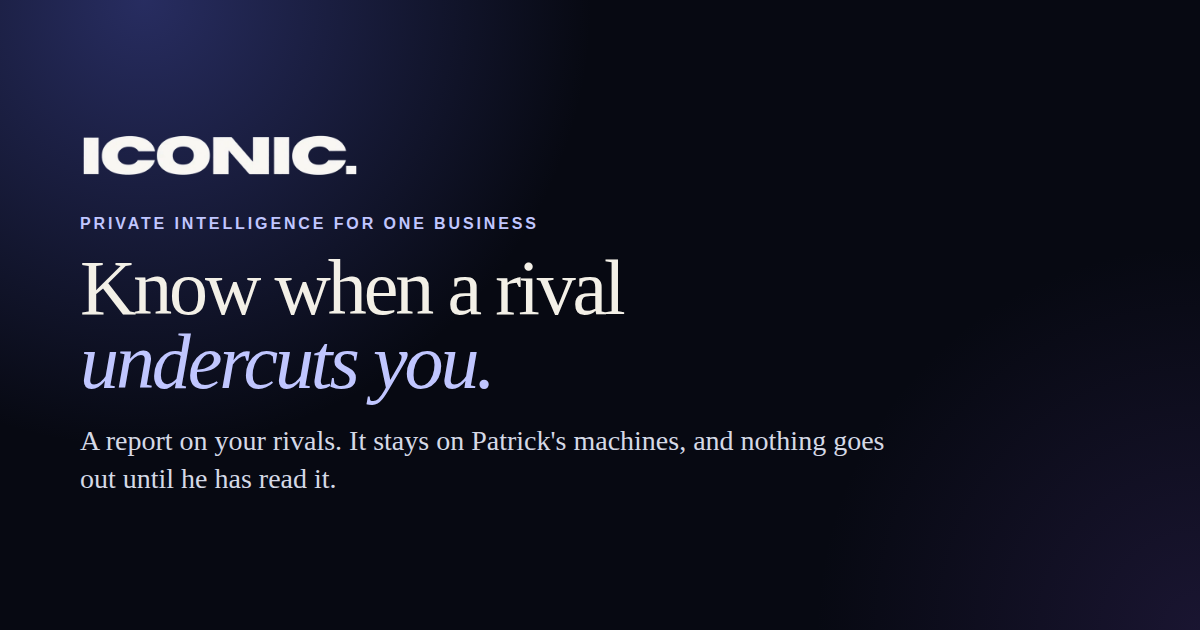
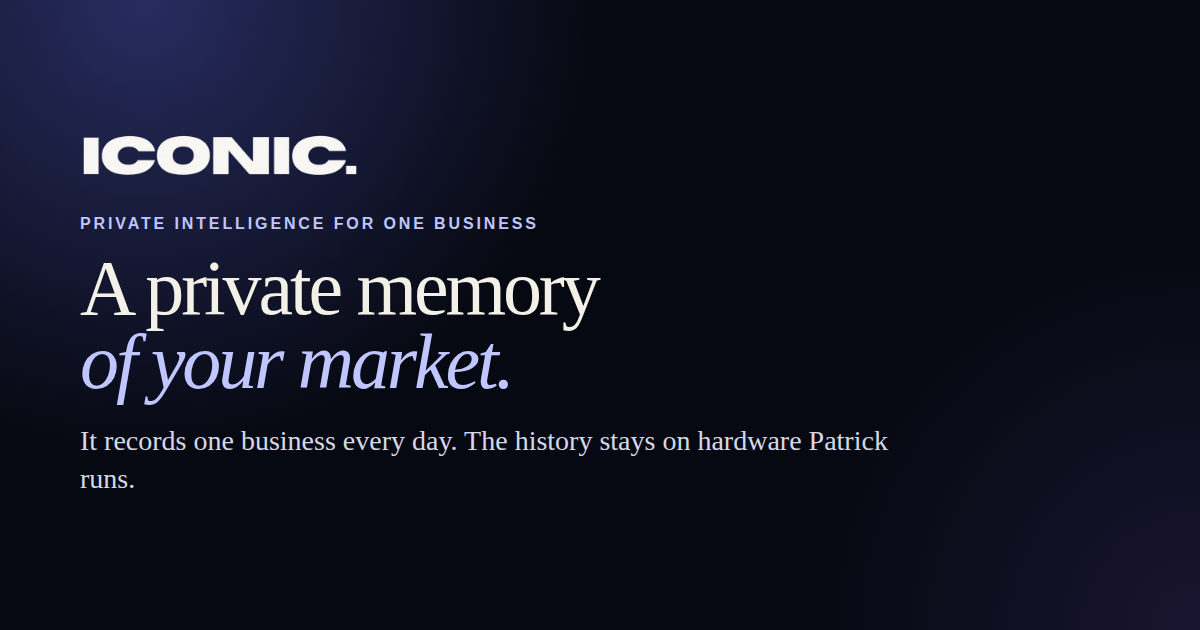
Lead with a private memory of one market
ICONIC is not a report generator. The hero is the daily record and the private connector. The dealer briefings stay under Running now as proof.

Changed region(s): [[0.0617, 0.3921, 0.5242, 0.6333], [0.0617, 0.6635, 0.74, 0.7238], [0.0617, 0.754, 0.2775, 0.7841]]

diff --git a/index.html b/index.html
@@ -4,11 +4,11 @@
   <meta charset="utf-8" />
   <meta name="viewport" content="width=device-width, initial-scale=1" />
   <meta name="theme-color" content="#080912" />
-  <title>ICONIC. — Know when a rival undercuts you</title>
-  <meta name="description" content="ICONIC learns one business. It starts as a report on your rivals, keeps a private history of their lots, and nothing goes out until Patrick has read it." />
+  <title>ICONIC. — A private memory of your market</title>
+  <meta name="description" content="ICONIC learns one business. It records that market every day and keeps the history on hardware Patrick runs. One private connector is in use for the current client. Nothing goes out until Patrick approves it." />
   <link rel="canonical" href="https://iconic.onl/" />
-  <meta property="og:title" content="ICONIC. — Know when a rival undercuts you" />
-  <meta property="og:description" content="A private report on your rivals. The market history stays on hardware Patrick runs, and nothing goes out until he has read it." />
+  <meta property="og:title" content="ICONIC. — A private memory of your market" />
+  <meta property="og:description" content="ICONIC learns one business. It records that market every day and keeps the history on hardware Patrick runs. Nothing goes out until Patrick approves it." />
   <meta property="og:url" content="https://iconic.onl/" />
   <meta property="og:type" content="website" />
   <meta property="og:image" content="https://iconic.onl/og.png" />
@@ -16,12 +16,12 @@
   <meta property="og:image:type" content="image/png" />
   <meta property="og:image:width" content="1200" />
   <meta property="og:image:height" content="630" />
-  <meta property="og:image:alt" content="ICONIC. Know when a rival undercuts you." />
+  <meta property="og:image:alt" content="ICONIC. A private memory of your market." />
   <meta name="twitter:card" content="summary_large_image" />
-  <meta name="twitter:title" content="ICONIC. — Know when a rival undercuts you" />
-  <meta name="twitter:description" content="A private report on your rivals. The market history stays on hardware Patrick runs, and nothing goes out until he has read it." />
+  <meta name="twitter:title" content="ICONIC. — A private memory of your market" />
+  <meta name="twitter:description" content="ICONIC learns one business. It records that market every day and keeps the history on hardware Patrick runs. Nothing goes out until Patrick approves it." />
   <meta name="twitter:image" content="https://iconic.onl/og.png" />
-  <meta name="twitter:image:alt" content="ICONIC. Know when a rival undercuts you." />
+  <meta name="twitter:image:alt" content="ICONIC. A private memory of your market." />
   <link rel="alternate" type="text/plain" href="/llms.txt" title="ICONIC for AI agents" />
   <script type="application/ld+json">
   {
@@ -53,12 +53,12 @@
       },
       {
         "@type": "Service",
-        "@id": "https://iconic.onl/#report",
-        "name": "ICONIC competitor report",
-        "serviceType": "Competitive intelligence for an owner-run business",
+        "@id": "https://iconic.onl/#service",
+        "name": "ICONIC",
+        "serviceType": "Private intelligence for one business",
         "provider": { "@id": "https://iconic.onl/#org" },
         "audience": { "@type": "BusinessAudience", "name": "Owner-run auto dealers, one rooftop or a small group" },
-        "description": "Rival lots are read daily and kept as a private history on hardware Patrick runs. A report goes out on Monday, Wednesday and Friday mornings. Like for like means the same year, model, trim, cab, drive and engine, with sticker prices within $1,000. Every number is tied to a dated public page and the exact quote. Reports are written with Claude, from public listing data. Patrick approves each report before it goes out."
+        "description": "ICONIC learns one business. It records that market every day and keeps the history on hardware Patrick runs. The longer it runs, the more of that market it holds. One private connector is in use for the current client. Patrick sets it up so that client's tools can read the same memory and the same checked numbers. There is no public install and no public API. For the one franchise dealer on it now, every rival lot we track is read daily, and a briefing goes out Monday, Wednesday and Friday mornings. Like for like means the same year, model, trim, cab, drive and engine, with sticker prices within $1,000. Every number is tied to a dated public page and the exact quote. The writing model only sees public listing data. Nothing goes out until Patrick approves it."
       },
       {
         "@type": "WebSite",
@@ -83,17 +83,17 @@
   <header class="site-header">
     <a class="brand" href="#top" aria-label="ICONIC home"><img src="iconic-wordmark.webp" alt="ICONIC." /></a>
     <nav class="nav" aria-label="Primary navigation">
-      <a href="#running">Running now</a>
       <a href="#how">How it works</a>
+      <a href="#running">Running now</a>
       <a href="#demo">The demo</a>
     </nav>
-    <a class="header-cta" href="#start">Start with one report</a>
+    <a class="header-cta" href="#start">Email Patrick</a>
     <button class="menu-toggle" id="menuToggle" type="button" aria-expanded="false" aria-controls="mobileNav">MENU</button>
     <nav class="mobile-nav" id="mobileNav" aria-label="Mobile navigation" hidden>
-      <a href="#running">Running now</a>
       <a href="#how">How it works</a>
+      <a href="#running">Running now</a>
       <a href="#demo">The demo</a>
-      <a href="#start">Start with one report</a>
+      <a href="#start">Email Patrick</a>
     </nav>
   </header>
 
@@ -101,8 +101,8 @@
     <section class="hero section-shell">
       <div class="hero-copy">
         <div class="eyebrow"><span class="live-dot"></span> Private intelligence for one business</div>
-        <h1>Know when a rival<br><em>undercuts you.</em></h1>
-        <p class="hero-deck">ICONIC learns one business. It starts as a report on your rivals that you can trust, and it keeps a private history of that market.</p>
+        <h1>A private memory<br><em>of your market.</em></h1>
+        <p class="hero-deck">ICONIC learns one business. It records that market every day and keeps the history on hardware I run. You see what rivals changed before you lose the deal.</p>
         <figure class="hero-bio">
           <img src="patrick-christell.jpg" alt="Patrick Christell" width="88" height="88" />
           <figcaption>
@@ -111,34 +111,61 @@
           </figcaption>
         </figure>
         <div class="hero-actions">
-          <a class="button button-primary" href="#start">Start with one report</a>
+          <a class="button button-primary" href="#start">Email Patrick</a>
           <a class="button button-ghost" href="#running">See what is running</a>
         </div>
         <div class="hero-proof">
-          <div><strong>01</strong><span>A report on your rivals</span></div>
-          <div><strong>02</strong><span>A private history of their lots</span></div>
-          <div><strong>03</strong><span>Nothing goes out until I approve it</span></div>
+          <div><strong>01</strong><span>Recorded every day</span></div>
+          <div><strong>02</strong><span>One private connector</span></div>
+          <div><strong>03</strong><span>A history a rival cannot copy</span></div>
         </div>
       </div>
       <aside class="hero-now" aria-label="What is running now">
         <div class="eyebrow"><span class="live-dot"></span> Running now</div>
-        <h2>Monday, Wednesday and Friday mornings.</h2>
+        <h2>One dealer is on it.</h2>
         <ul>
-          <li>One franchise dealer. I do not name clients.</li>
           <li>Every rival lot we track, read daily.</li>
+          <li>A briefing Monday, Wednesday and Friday mornings.</li>
           <li>None goes out until I approve it.</li>
         </ul>
-        <p>Between reports, they can text questions to a private Telegram bot.</p>
+        <p>Between briefings, they text a private Telegram bot. I do not name clients.</p>
       </aside>
+    </section>
+
+    <section id="how" class="section-shell page-block">
+      <div class="section-kicker">How it works</div>
+      <h2>It learns one business, and it keeps the record.</h2>
+      <div class="fact-grid">
+        <article class="fact-card">
+          <span>01</span>
+          <h3>The record</h3>
+          <p>The market is written down every day. The history stays on hardware I run. The longer it runs, the more of that market it holds.</p>
+        </article>
+        <article class="fact-card">
+          <span>02</span>
+          <h3>The connector</h3>
+          <p>One private connector. I set it up. The AI an owner already uses can read this memory through it, and the numbers behind it. Each number is tied to a dated public page and the exact quote. Today it is private to the one dealer on ICONIC. There is no public install and no public API.</p>
+        </article>
+        <article class="fact-card">
+          <span>03</span>
+          <h3>What a rival cannot copy</h3>
+          <p>A rival can read the same public pages. They cannot copy a history they never recorded.</p>
+        </article>
+      </div>
+      <div class="private-note">
+        <span>The history</span>
+        <h3>Your market history stays on hardware I run.</h3>
+        <p>The writing model only sees public listing data, and nothing goes out until I approve it.</p>
+      </div>
     </section>
 
     <section id="running" class="section-shell page-block">
       <div class="section-kicker">Running now</div>
-      <h2>Monday, Wednesday and Friday mornings.</h2>
+      <h2>One dealer is on it now.</h2>
       <div class="prose">
-        <p>I have one live client. A franchise dealer. I do not name clients. This is built for an owner who runs the store, one rooftop or a small group.</p>
-        <p>They get a competitor report on Monday, Wednesday and Friday mornings. None goes out until I approve it.</p>
-        <p>Every rival lot we track, read daily. Each read is the trucks, the prices, the trims and the VINs. Between reports, they can text questions to a private Telegram bot.</p>
+        <p>I have one live client, a franchise dealer. I do not name clients. ICONIC is for an owner who runs the store, one rooftop or a small group.</p>
+        <p>Every rival lot we track, read daily. Each read is the trucks, the prices, the trims and the VINs. A briefing goes out Monday, Wednesday and Friday mornings. None goes out until I approve it.</p>
+        <p>Between briefings, they can text questions to a private Telegram bot.</p>
       </div>
       <div class="rule-grid">
         <article>
@@ -151,33 +178,6 @@
         </article>
       </div>
       <p class="pain-line">You should know when a rival undercuts a truck you both have, before you lose the deal.</p>
-    </section>
-
-    <section id="how" class="section-shell page-block">
-      <div class="section-kicker">How it works</div>
-      <h2>A report you can trust, then a history only you have.</h2>
-      <div class="fact-grid">
-        <article class="fact-card">
-          <span>01</span>
-          <h3>The report</h3>
-          <p>You name the rivals. I read the lots and write what changed. None goes out until I approve it.</p>
-        </article>
-        <article class="fact-card">
-          <span>02</span>
-          <h3>The record</h3>
-          <p>The daily reads stay. You keep a private history of that market. A later morning can sit next to an earlier one.</p>
-        </article>
-        <article class="fact-card">
-          <span>03</span>
-          <h3>The same truck</h3>
-          <p>A comparison is like for like. Same year, model, trim, cab, drive and engine, with sticker prices within $1,000.</p>
-        </article>
-      </div>
-      <div class="private-note">
-        <span>The history</span>
-        <h3>Your market history stays on hardware I run.</h3>
-        <p>Reports are written with Claude, from public listing data. Nothing goes out until I approve it.</p>
-      </div>
     </section>
 
     <section id="demo" class="section-shell page-block">
@@ -204,7 +204,7 @@
             <div class="map-readout-row">
               <div>
                 <strong id="mapTitle">One business</strong>
-                <p id="mapDescription">A sample of the desk. The real work is a report on the rival lots we track. None goes out until I approve it.</p>
+                <p id="mapDescription">A sample of the desk. The real work is a private memory of one market. The dealer on it now gets a briefing, and none goes out until I approve it.</p>
               </div>
               <button id="mapAction" type="button" data-tab="ask">Open the sample</button>
             </div>
@@ -428,11 +428,11 @@
     <section id="start" class="section-shell page-block">
       <div class="offer-card start-card">
         <div class="section-kicker">The start</div>
-        <h2>Start with one report.</h2>
+        <h2>Start with your market.</h2>
         <div class="prose">
           <p>Email me three things. Your business. Your top three competitors. What you wish you knew every Monday.</p>
-          <p>I will read those lots and write a report. None goes out until I approve it. If you want it to keep coming, it arrives on Monday, Wednesday and Friday mornings, the same way it does now.</p>
-          <p>The first report takes the time it takes to read the lots, and the time it takes me to approve it.</p>
+          <p>I will record that market and keep the history. For the dealer already on it, a briefing goes out Monday, Wednesday and Friday mornings. None goes out until I approve it.</p>
+          <p>The first briefing takes the time it takes to read the lots, and the time it takes me to approve it.</p>
         </div>
         <div class="price-placeholder">
           <span>Price</span>
@@ -459,7 +459,7 @@
       </div>
       <footer>
         <span>© 2026 ICONIC.</span>
-        <span>A private report on one business</span>
+        <span>A private memory of one market</span>
         <a href="#top">Back to top</a>
       </footer>
     </section>

diff --git a/webmcp.js b/webmcp.js
@@ -22,19 +22,21 @@
   const SERVICE = {
     name: "ICONIC",
     summary:
-      "A private intelligence service for one owner-run business. It starts as a competitor report: rival lots read daily, kept as a private history on hardware Patrick runs, and reported on Monday, Wednesday and Friday mornings. Reports are written with Claude, from public listing data. Patrick approves every report before the client gets it.",
+      "ICONIC learns one business. It records that market every day and keeps the history on hardware Patrick runs. The longer it runs, the more of that market it holds. One private connector is in use for the current client. Patrick sets it up so an AI the owner already uses can read the same memory and the same numbers. There is no public install and no public API. The writing model only sees public listing data. Nothing goes out until Patrick approves it. The Monday, Wednesday and Friday briefings are what the current dealer receives. They are not the whole product.",
     for_whom: "An owner who runs the store: one franchise rooftop or a small dealer group.",
     includes: [
-      "Competitor report on Monday, Wednesday and Friday mornings",
-      "Daily read of every tracked rival lot: trucks, prices, trims, VINs",
-      "Private history of those reads, kept on hardware Patrick runs",
-      "Like-for-like comparisons: same year, model, trim, cab, drive and engine, sticker within $1,000",
+      "A private memory of one market, recorded every day",
+      "History kept on hardware Patrick runs",
+      "One private connector, set up by Patrick, in use for the current client only",
+      "The same memory and the same numbers for the AI that connector serves",
       "Every number tied to a dated public page and the exact quote",
-      "Between reports, questions by text to a private Telegram bot",
-      "Reports written with Claude, from public listing data",
+      "No public install and no public API",
+      "Running now for one franchise dealer: rival lots read daily, a briefing Monday, Wednesday and Friday mornings, questions by text to a private Telegram bot",
+      "Like-for-like comparisons: same year, model, trim, cab, drive and engine, sticker within $1,000",
+      "The writing model only sees public listing data",
       "Nothing goes out until Patrick approves it"
     ],
-    live_clients: "One franchise auto dealer. Clients are not named.",
+    live_clients: "One franchise auto dealer. Clients are not named. The private connector is in use for that client only. No third-party AI is offered as a public connection.",
     price: "Not listed yet. Ask Patrick.",
     how_to_start: `Email ${EMAIL} with your business, your top three competitors, and what you wish you knew every Monday. Or call ${PHONE}.`
   };
@@ -64,7 +66,7 @@
     {
       name: "request_a_report",
       description:
-        "Open a pre-filled email to Patrick asking to start with one competitor report. This only opens a draft in the visitor's mail app; the visitor reviews and sends it. Ask the visitor before calling.",
+        "Open the same pre-filled email the website uses, so the visitor can ask Patrick to start. This only opens a draft in the visitor's mail app. The visitor reviews and sends it. Ask the visitor before calling.",
       inputSchema: {
         type: "object",
         properties: {

diff --git a/app.js b/app.js
@@ -51,7 +51,7 @@
   onScroll();
 
   // Deterministic primary-nav state: nothing is active at the top.
-  const navTargets = ['running', 'how', 'demo'];
+  const navTargets = ['how', 'running', 'demo'];
   const navLinks = $$('.nav a[href^="#"]');
   const updateNavState = () => {
     if (window.scrollY < 180) {
@@ -95,7 +95,7 @@
   mapAction?.addEventListener('click', () => openDashboardTab(mapAction.dataset.tab || 'ask', true));
 
   // Demo Ask intelligence. Price questions about the offer get a straight answer.
-  const offerPriceAnswer = 'The price is on this page, under Start with one report. That line is a placeholder until I set it. Email patrick@iconic.onl with your business, your top three competitors, and what you wish you knew every Monday.';
+  const offerPriceAnswer = 'The price is on this page, under Start with your market. That line is a placeholder until I set it. Email patrick@iconic.onl with your business, your top three competitors, and what you wish you knew every Monday.';
   function isOfferPriceQuestion(prompt) {
     const p = prompt.trim().toLowerCase();
     const aboutLots = /\b(rival|competitor|lot|truck|vin|inventory|listing)s?\b/.test(p);
@@ -195,7 +195,7 @@
         'Sample only.',
         'Between reports, they can text questions to a private Telegram bot.',
         'The report is separate, and I approve it before it goes out.',
-        'For a price, use Start with one report and email patrick@iconic.onl.'
+        'For a price, use Start with your market and email patrick@iconic.onl.'
       ]
     }
   };

diff --git a/three-scene.js b/three-scene.js
@@ -12,7 +12,7 @@ const coarsePointer = matchMedia('(pointer: coarse)').matches;
 
 if (canvas && stage && labelsRoot) {
   const nodeDefs = [
-    { id:'core', label:'ICONIC', tab:'ask', eyebrow:'SAMPLE DESK', title:'ONE BUSINESS', pos:[0,.1,.35], radius:.72, description:'A sample of the desk. The real work is a report on the rival lots we track. None goes out until I approve it.' },
+    { id:'core', label:'ICONIC', tab:'ask', eyebrow:'SAMPLE DESK', title:'ONE BUSINESS', pos:[0,.1,.35], radius:.72, description:'A sample of the desk. The real work is a private memory of one market. The dealer on it now gets a briefing, and none goes out until I approve it.' },
     { id:'ask', label:'ASK', tab:'ask', eyebrow:'SAMPLE DESK', title:'ASK A QUESTION', pos:[-2.45,1.42,.15], radius:.42, description:'Between reports, they can text questions to a private Telegram bot. This box is a sample. Ask what a report costs and it will point you to the offer.' },
     { id:'intelligence', label:'INTELLIGENCE', tab:'intelligence', eyebrow:'SAMPLE DESK', title:'WHAT CHANGED', pos:[2.5,1.38,-.28], radius:.45, description:'Sample findings. A real number traces to a dated public page, with the exact quote.' },
     { id:'work', label:'WORK', tab:'work', eyebrow:'SAMPLE DESK', title:'THE MORNING REPORT', pos:[2.62,-1.3,.2], radius:.43, description:'Sample queue. The live rhythm is Monday, Wednesday and Friday mornings.' },

diff --git a/README.md b/README.md
@@ -31,11 +31,11 @@ These sit in the site root and go out with the GitHub Pages publish. They descri
 
 - `llms.txt` is a plain-text brief for agents. Linked from the home page with `<link rel="alternate" type="text/plain" href="/llms.txt">`.
 - `webmcp.js` registers three WebMCP tools when the browser has `document.modelContext` or `navigator.modelContext`: `describe_service`, `get_contact`, and `request_a_report`. No polyfill is loaded. The script makes no network calls. `request_a_report` only opens a pre-filled `mailto:` for the visitor to send. Nothing is sent by the page.
-- The JSON-LD in `index.html` is the same public facts: organization, Patrick, the report, and the site.
+- The JSON-LD in `index.html` is the same public facts: organization, Patrick, the private memory, and the site.
 - `robots.txt` allows the public site and points at the sitemap.
 - `sitemap.xml` lists the home page, with `lastmod` set to the day this copy was updated (2026-10-28), not a guessed merge date.
 
-What is true, and what these files are allowed to say: the market history and the tools stay on hardware Patrick runs. Reports are written with Claude, from public listing data. Nothing goes out until he approves it. Do not write that the whole product runs on a local stack, or that nothing touches a cloud.
+What is true, and what these files are allowed to say: ICONIC is a private memory of one market, recorded every day, kept on hardware Patrick runs. One private connector is in use for the current client. Patrick sets it up. There is no public install and no public API. The writing model only sees public listing data. Nothing goes out until he approves it. The dealer briefings are proof of that memory, not the product. Do not write that the whole product runs on a local stack, or that ChatGPT or any other named AI is already connected for clients.
 
 An origin-trial token for WebMCP is not in the page. Until Patrick registers iconic.onl, the tools show up only in browsers with the WebMCP testing flag on.
 

diff --git a/CHANGELOG.md b/CHANGELOG.md
@@ -6,6 +6,7 @@ Live: https://iconic.onl/ · Test version: Railway staging (branch `staging`).
 ## 2026-10-28
 - Rewrote the page for the WAC ad: plain offer, the real Monday/Wednesday/Friday report, Patrick's photo under the hero, sample desk labeled illustrative, and a price placeholder Patrick still has to fill.
 - Added llms.txt, WebMCP tools, JSON-LD, robots.txt and a sitemap lastmod. Corrected the privacy line: history stays on Patrick's hardware, reports are written with Claude from public listings, and nothing goes out until he approves it.
+- Led the page with the private memory of one market. The dealer briefings are the proof under Running now, not the headline.
 
 ## 2026-10-11
 - Moved hosting from Railway (free trial ending) to GitHub Pages, free, like the other sites. Also makes www.iconic.onl work. Site content unchanged.
